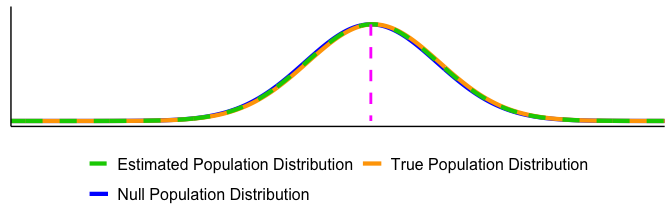
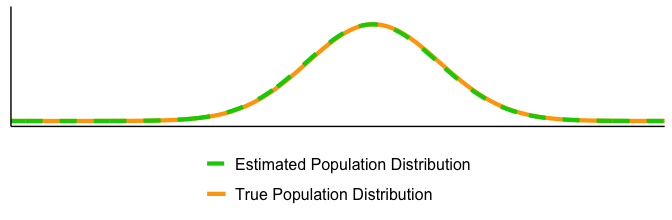
Ch4: 'The players' table replaces the four-distributions list and key; one idea per build-up figure
- intro on what a test is about, then a table of every player with its line
- step 3 shows true + estimated population only; step 4 shows estimated
  population + sampling distribution of the sample mean only, with the
  sqrt(n) vs n-1 note; step 5 puts them together
- Route 1 points back to the table's last row

diff --git a/docs/04-Foundation_Inference.html b/docs/04-Foundation_Inference.html
@@ -76,6 +76,8 @@ ul.task-list li input[type="checkbox"] {
     "search-label": "Search"
   }
 }</script>
+<script src="site_libs/kePrint-0.0.1/kePrint.js"></script>
+<link href="site_libs/lightable-0.0.1/lightable.css" rel="stylesheet">
 
   <script src="https://cdnjs.cloudflare.com/polyfill/v3/polyfill.min.js?features=es6"></script>
   <script defer="" src="https://cdn.jsdelivr.net/npm/mathjax@4/tex-chtml.js" type="text/javascript"></script>
@@ -248,8 +250,8 @@ window.Quarto = {
   <ul class="collapse">
   <li><a href="#the-null-and-alternative-hypotheses" id="toc-the-null-and-alternative-hypotheses" class="nav-link" data-scroll-target="#the-null-and-alternative-hypotheses"><span class="header-section-number">4.3.1</span> The null and alternative hypotheses</a></li>
   <li><a href="#from-simulation-to-a-formal-test" id="toc-from-simulation-to-a-formal-test" class="nav-link" data-scroll-target="#from-simulation-to-a-formal-test"><span class="header-section-number">4.3.2</span> From simulation to a formal test</a></li>
-  <li><a href="#the-four-distributions" id="toc-the-four-distributions" class="nav-link" data-scroll-target="#the-four-distributions"><span class="header-section-number">4.3.3</span> The four distributions</a></li>
-  <li><a href="#seeing-all-four-at-once" id="toc-seeing-all-four-at-once" class="nav-link" data-scroll-target="#seeing-all-four-at-once"><span class="header-section-number">4.3.4</span> Seeing all four at once</a></li>
+  <li><a href="#the-players" id="toc-the-players" class="nav-link" data-scroll-target="#the-players"><span class="header-section-number">4.3.3</span> The players</a></li>
+  <li><a href="#seeing-them-together" id="toc-seeing-them-together" class="nav-link" data-scroll-target="#seeing-them-together"><span class="header-section-number">4.3.4</span> Seeing them together</a></li>
   </ul></li>
   <li><a href="#making-the-decision" id="toc-making-the-decision" class="nav-link" data-scroll-target="#making-the-decision"><span class="header-section-number">4.4</span> Making the decision</a>
   <ul class="collapse">
@@ -444,32 +446,91 @@ Figure&nbsp;4.5: Decision boundaries applied to the histogram of mean count diff
 </div>
 </div>
 </section>
-<section id="the-four-distributions" class="level3" data-number="4.3.3">
-<h3 data-number="4.3.3" class="anchored" data-anchor-id="the-four-distributions"><span class="header-section-number">4.3.3</span> The four distributions</h3>
-<p>Hypothesis testing juggles four distributions at once, which is the main reason it feels harder than it is. Three of them you have already met. Only one is new.</p>
-<p><strong>Already familiar, from Chapter 3:</strong></p>
-<ul>
-<li><strong>True population distribution.</strong> The actual distribution the data came from. We never observe it. Chapter 3 called this the population distribution, and everything about estimation assumed it was out there.</li>
-<li><strong>Estimated population distribution.</strong> A normal curve built from the sample: centered at <span class="math inline">\(\bar{x}\)</span>, with the sample standard deviation as its spread. It is what the sample suggests the population looks like. This is estimation from Chapter 3, viewed as a whole distribution rather than a single parameter. In a test it stands in for <span class="math inline">\(H_a\)</span>.</li>
-<li><strong>Sampling distribution of the sample mean.</strong> What you would get if you drew many samples and computed <span class="math inline">\(\bar{x}\)</span> each time. Chapter 3 built this one in detail and gave it a spread, the standard error, <span class="math inline">\(\sigma/\sqrt{n}\)</span>.</li>
-</ul>
-<p><strong>New here:</strong></p>
-<ul>
-<li><strong>Null population distribution.</strong> The population distribution we would have <em>if <span class="math inline">\(H_0\)</span> were true</em>: centered at <span class="math inline">\(\mu_0\)</span>, and as wide as the population itself. In the figures below it is the blue curve.</li>
-</ul>
+<section id="the-players" class="level3" data-number="4.3.3">
+<h3 data-number="4.3.3" class="anchored" data-anchor-id="the-players"><span class="header-section-number">4.3.3</span> The players</h3>
+<p>A test is about <span class="math inline">\(\mu\)</span>, the true population mean, which we never observe; everything we know about it comes from one sample. The null hypothesis names a value for it, <span class="math inline">\(\mu_0\)</span>. To reject <span class="math inline">\(H_0\)</span>, the sample has to be hard to explain if the null were true: its mean, <span class="math inline">\(\bar{x}\)</span>, has to land farther from <span class="math inline">\(\mu_0\)</span> than sampling error would plausibly carry it.</p>
+<p>Several distributions and values take part in that comparison. <a href="#tbl-4players" class="quarto-xref">Table&nbsp;<span>4.1</span></a> lists every one, with the line each is drawn with in this chapter’s figures. Three are familiar from Chapter 3: the true population distribution, the estimated population distribution, and the sampling distribution of the sample mean. The rest come from the null hypothesis or are built later in the chapter.</p>
+<div class="cell">
+<div id="tbl-4players" class="cell quarto-float quarto-figure quarto-figure-center anchored">
+<figure class="quarto-float quarto-float-tbl figure">
+<figcaption class="quarto-float-caption-top quarto-float-caption quarto-float-tbl" id="tbl-4players-caption-0ceaefa1-69ba-4598-a22c-09a6ac19f8ca">
+Table&nbsp;4.1: The players in a hypothesis test, and the line each is drawn with in this chapter’s figures.
+</figcaption>
+<div aria-describedby="tbl-4players-caption-0ceaefa1-69ba-4598-a22c-09a6ac19f8ca">
+<div class="cell-output-display">
+<table class="table cell caption-top table-sm table-striped small">
+<thead>
+<tr class="header">
+<th style="text-align: left;" data-quarto-table-cell-role="th">Line</th>
+<th style="text-align: left;" data-quarto-table-cell-role="th">Player</th>
+<th style="text-align: left;" data-quarto-table-cell-role="th">What it is</th>
+</tr>
+</thead>
+<tbody>
+<tr class="odd" data-grouplength="2">
+<td colspan="3" style="border-bottom: 1px solid"><strong>The hypothesis</strong></td>
+</tr>
+<tr class="even">
+<td style="text-align: left; padding-left: 2em;" data-indentlevel="1"><img src="imgs/ch4_players/mu0.png" width="38" height="12" class="figure-img"></td>
+<td style="text-align: left;">\(\mu_0\)</td>
+<td style="text-align: left;">The population mean if \(H_0\) were true</td>
+</tr>
+<tr class="odd">
+<td style="text-align: left; padding-left: 2em;" data-indentlevel="1"><img src="imgs/ch4_players/nullpop.png" width="38" height="12" class="figure-img"></td>
+<td style="text-align: left;">Null population distribution</td>
+<td style="text-align: left;">The population if \(H_0\) were true: centered at \(\mu_0\), as wide as the population</td>
+</tr>
+<tr class="even" data-grouplength="1">
+<td colspan="3" style="border-bottom: 1px solid"><strong>The truth</strong></td>
+</tr>
+<tr class="odd">
+<td style="text-align: left; padding-left: 2em;" data-indentlevel="1"><img src="imgs/ch4_players/truepop.png" width="38" height="12" class="figure-img"></td>
+<td style="text-align: left;">True population distribution</td>
+<td style="text-align: left;">The population the data actually came from. Never known</td>
+</tr>
+<tr class="even" data-grouplength="4">
+<td colspan="3" style="border-bottom: 1px solid"><strong>The sample</strong></td>
+</tr>
+<tr class="odd">
+<td style="text-align: left; padding-left: 2em;" data-indentlevel="1"><img src="imgs/ch4_players/xbar.png" width="38" height="12" class="figure-img"></td>
+<td style="text-align: left;">\(\bar{x}\)</td>
+<td style="text-align: left;">The sample mean: the one value we observe</td>
+</tr>
+<tr class="even">
+<td style="text-align: left; padding-left: 2em;" data-indentlevel="1"><img src="imgs/ch4_players/estpop.png" width="38" height="12" class="figure-img"></td>
+<td style="text-align: left;">Estimated population distribution</td>
+<td style="text-align: left;">A normal curve from the sample's mean and standard deviation: our best picture of the true population</td>
+</tr>
+<tr class="odd">
+<td style="text-align: left; padding-left: 2em;" data-indentlevel="1"><img src="imgs/ch4_players/samp.png" width="38" height="12" class="figure-img"></td>
+<td style="text-align: left;">Sampling distribution of the sample mean</td>
+<td style="text-align: left;">Where \(\bar{x}\) would land across many samples: centered at \(\bar{x}\), spread = standard error</td>
+</tr>
+<tr class="even">
+<td style="text-align: left; padding-left: 2em;" data-indentlevel="1"><img src="imgs/ch4_players/ci.png" width="38" height="12" class="figure-img"></td>
+<td style="text-align: left;">Confidence interval</td>
+<td style="text-align: left;">\(\bar{x} \pm 1.96\) standard errors, built from the sampling distribution of the sample mean (Route 2)</td>
+</tr>
+<tr class="odd" data-grouplength="1">
+<td colspan="3" style="border-bottom: 1px solid"><strong>For testing</strong></td>
+</tr>
+<tr class="even">
+<td style="text-align: left; padding-left: 2em;" data-indentlevel="1"><img src="imgs/ch4_players/sampH0.png" width="38" height="12" class="figure-img"></td>
+<td style="text-align: left;">Sampling distribution of the sample mean under \(H_0\)</td>
+<td style="text-align: left;">Where \(\bar{x}\) would land if \(H_0\) were true: centered at \(\mu_0\), spread = standard error (Route 1)</td>
+</tr>
+</tbody>
+</table>
+</div>
+</div>
+</figure>
+</div>
+</div>
 </section>
-<section id="seeing-all-four-at-once" class="level3" data-number="4.3.4">
-<h3 data-number="4.3.4" class="anchored" data-anchor-id="seeing-all-four-at-once"><span class="header-section-number">4.3.4</span> Seeing all four at once</h3>
-<p>The four are much easier to hold onto as a picture than as a list. Let’s build that picture one curve at a time, ending at <a href="#fig-4key.keyfig" class="quarto-xref">Figure&nbsp;<span>4.10</span></a>.</p>
+<section id="seeing-them-together" class="level3" data-number="4.3.4">
+<h3 data-number="4.3.4" class="anchored" data-anchor-id="seeing-them-together"><span class="header-section-number">4.3.4</span> Seeing them together</h3>
+<p>The players are easier to hold onto as a picture than as a table. Let’s build that picture a curve or two at a time, ending at <a href="#fig-4key.keyfig" class="quarto-xref">Figure&nbsp;<span>4.10</span></a>.</p>
 <p>Every curve in these figures is drawn as a normal curve. For the sampling distribution of the sample mean, that is the Central Limit Theorem at work. For the three population curves, it is an assumption: we treat the population as normal, and the estimated population is the normal curve with the sample’s mean and standard deviation.</p>
-<p>Here is what each line means in the figures that follow:</p>
-<ul>
-<li><strong>Blue solid line</strong> = Null population distribution (<span class="math inline">\(H_0\)</span>).</li>
-<li><strong>Orange solid line</strong> = True population distribution (what actually generated the data).</li>
-<li><strong>Light-green dashed line</strong> = Estimated population distribution (built from the sample; our stand-in for <span class="math inline">\(H_a\)</span>).</li>
-<li><strong>Dark-green dot-dashed line</strong> = Sampling distribution of the sample mean, <span class="math inline">\(\bar{x}\)</span>.</li>
-<li><strong>Magenta dashed line</strong> = Hypothesized mean <span class="math inline">\(\mu_0\)</span> (under <span class="math inline">\(H_0\)</span>).</li>
-</ul>
 <p><strong>1. The null population distribution.</strong></p>
 <p>Start with the null population distribution: the population we would have if <span class="math inline">\(H_0\)</span> were true. Its center, <span class="math inline">\(\mu_0\)</span> (magenta dashed line), comes from <span class="math inline">\(H_0\)</span> itself. Its spread is the population standard deviation, <span class="math inline">\(\sigma\)</span>. In practice <span class="math inline">\(\sigma\)</span> is almost never known and the sample’s standard deviation stands in for it; this chapter treats <span class="math inline">\(\sigma\)</span> as known as a simplification. The <span class="math inline">\(t\)</span>-tests in Chapter 6 are the adjustment used in practice.</p>
 <div class="cell">
@@ -502,37 +563,37 @@ Figure&nbsp;4.7: True population distribution equals the null population distrib
 </div>
 </div>
 </div>
-<p><strong>3. Adding the estimated population distribution.</strong> We never know the true population distribution directly, but what we do have is a sample. From the sample’s mean and standard deviation we build the <strong>estimated population distribution</strong> (light-green dashed). In the best case, this lines up closely with the true population (orange).</p>
+<p><strong>3. The sample’s picture of the truth.</strong> We never see the true population, but we do have a sample. From the sample’s mean and standard deviation we build the <strong>estimated population distribution</strong> (light-green dashed): a normal curve that is our best picture of the true population (orange). With a representative sample, the two line up closely.</p>
 <div class="cell">
 <div class="cell-output-display">
-<div id="fig-4key.perfectly_representative_sample" class="quarto-float quarto-figure quarto-figure-center anchored" alt="Three wide bell curves nearly stacked on top of one another near the same center: the blue null population distribution, the orange true population, and the light-green dashed estimated population.">
+<div id="fig-4key.perfectly_representative_sample" class="quarto-float quarto-figure quarto-figure-center anchored" alt="Two wide bell curves nearly on top of one another: the solid orange true population and the light-green dashed estimated population.">
 <figure class="quarto-float quarto-float-fig figure">
 <div aria-describedby="fig-4key.perfectly_representative_sample-caption-0ceaefa1-69ba-4598-a22c-09a6ac19f8ca">
-<img src="04-Foundation_Inference_files/figure-html/fig-4key.perfectly_representative_sample-1.png" class="img-fluid figure-img" style="width:100.0%" alt="Three wide bell curves nearly stacked on top of one another near the same center: the blue null population distribution, the orange true population, and the light-green dashed estimated population.">
+<img src="04-Foundation_Inference_files/figure-html/fig-4key.perfectly_representative_sample-1.png" class="img-fluid figure-img" style="width:100.0%" alt="Two wide bell curves nearly on top of one another: the solid orange true population and the light-green dashed estimated population.">
 </div>
 <figcaption class="quarto-float-caption-bottom quarto-float-caption quarto-float-fig" id="fig-4key.perfectly_representative_sample-caption-0ceaefa1-69ba-4598-a22c-09a6ac19f8ca">
-Figure&nbsp;4.8: Perfectly representative sample: the estimated population distribution lines up with the true and null population distributions.
+Figure&nbsp;4.8: A representative sample: the estimated population distribution, built from the sample, lines up closely with the true population distribution.
 </figcaption>
 </figure>
 </div>
 </div>
 </div>
-<p><strong>4. Adding the sampling distribution of the sample mean.</strong> Divide the sample’s spread by <span class="math inline">\(\sqrt{n}\)</span> and we get the <strong>sampling distribution of the sample mean</strong> (dark-green dot-dash): centered at <span class="math inline">\(\bar{x}\)</span>, and much narrower. This special distribution is also where the confidence interval comes from, which we build later in this chapter.</p>
+<p><strong>4. From individual readings to sample means.</strong> Divide the sample’s standard deviation by <span class="math inline">\(\sqrt{n}\)</span>. (Not <span class="math inline">\(\sqrt{n-1}\)</span>: the <span class="math inline">\(n-1\)</span> already went into computing the standard deviation itself, back in Chapter 3.) The result is the standard error, and it gives the <strong>sampling distribution of the sample mean</strong> (dark-green dot-dash): centered at <span class="math inline">\(\bar{x}\)</span>, and much narrower. This special distribution is also where the confidence interval comes from, which we build later in this chapter.</p>
 <div class="cell">
 <div class="cell-output-display">
-<div id="fig-4key.sample_imperfect_convenient" class="quarto-float quarto-figure quarto-figure-center anchored" alt="Four curves: the blue null population distribution sits somewhat left of the orange true population, light-green dashed estimated population, and dark-green sampling distribution, which are clustered together to its right. The null mean is marked with a dashed vertical line.">
+<div id="fig-4key.sample_to_sampling" class="quarto-float quarto-figure quarto-figure-center anchored" alt="A wide light-green dashed bell curve and a much narrower, taller dark-green dot-dash bell curve, both centered at the same point.">
 <figure class="quarto-float quarto-float-fig figure">
-<div aria-describedby="fig-4key.sample_imperfect_convenient-caption-0ceaefa1-69ba-4598-a22c-09a6ac19f8ca">
-<img src="04-Foundation_Inference_files/figure-html/fig-4key.sample_imperfect_convenient-1.png" class="img-fluid figure-img" style="width:100.0%" alt="Four curves: the blue null population distribution sits somewhat left of the orange true population, light-green dashed estimated population, and dark-green sampling distribution, which are clustered together to its right. The null mean is marked with a dashed vertical line.">
+<div aria-describedby="fig-4key.sample_to_sampling-caption-0ceaefa1-69ba-4598-a22c-09a6ac19f8ca">
+<img src="04-Foundation_Inference_files/figure-html/fig-4key.sample_to_sampling-1.png" class="img-fluid figure-img" style="width:100.0%" alt="A wide light-green dashed bell curve and a much narrower, taller dark-green dot-dash bell curve, both centered at the same point.">
 </div>
-<figcaption class="quarto-float-caption-bottom quarto-float-caption quarto-float-fig" id="fig-4key.sample_imperfect_convenient-caption-0ceaefa1-69ba-4598-a22c-09a6ac19f8ca">
-Figure&nbsp;4.9: Imperfect but convenient sample: the estimated population sits close to the null population distribution, but not on it. The sampling distribution of the sample mean is centered on <span class="math inline">\(\bar{x}\)</span> and much narrower.
+<figcaption class="quarto-float-caption-bottom quarto-float-caption quarto-float-fig" id="fig-4key.sample_to_sampling-caption-0ceaefa1-69ba-4598-a22c-09a6ac19f8ca">
+Figure&nbsp;4.9: From the sample to sample means: the estimated population distribution (light-green dashed) and the sampling distribution of the sample mean (dark-green dot-dash) share a center, <span class="math inline">\(\bar{x}\)</span>. Dividing the spread by <span class="math inline">\(\sqrt{n}\)</span> makes the second much narrower.
 </figcaption>
 </figure>
 </div>
 </div>
 </div>
-<p>All four together give the figure you will see variations on for the rest of the book.</p>
+<p><strong>5. All together.</strong> <a href="#fig-4key.keyfig" class="quarto-xref">Figure&nbsp;<span>4.10</span></a> puts the null population, the true population, the estimated population, and the sampling distribution of the sample mean in one picture. This is the figure you will see variations on for the rest of the book.</p>
 <p>Key reminder: <span class="math inline">\(\mu_0\)</span> (magenta dashed line) comes from the null hypothesis. The unknown <span class="math inline">\(\mu\)</span> is what we’re trying to learn about, and we approximate it from the sample through the estimated population distribution and the sampling distribution of the sample mean.</p>
 <div class="cell">
 <div class="cell-output-display">
@@ -597,7 +658,7 @@ Figure&nbsp;4.10: Key elements of hypothesis testing graphs: null population (bl
 </section>
 <section id="route-1-test-statistic-and-critical-values" class="level3" data-number="4.4.3">
 <h3 data-number="4.4.3" class="anchored" data-anchor-id="route-1-test-statistic-and-critical-values"><span class="header-section-number">4.4.3</span> Route 1: test statistic and critical values</h3>
-<p>Critical values need one more curve: the <strong>sampling distribution of the sample mean under <span class="math inline">\(H_0\)</span></strong>, which describes what <span class="math inline">\(\bar{x}\)</span> would look like across many samples if <span class="math inline">\(H_0\)</span> were true. Its center, <span class="math inline">\(\mu_0\)</span>, comes from <span class="math inline">\(H_0\)</span>. Its spread is the standard error, <span class="math inline">\(\sigma/\sqrt{n}\)</span>. This curve is the formal version of the chance window: instead of simulating the differences chance can produce, we assume a distribution and read them off it.</p>
+<p>Critical values need one more curve, the last row of <a href="#tbl-4players" class="quarto-xref">Table&nbsp;<span>4.1</span></a>: the <strong>sampling distribution of the sample mean under <span class="math inline">\(H_0\)</span></strong>, which describes what <span class="math inline">\(\bar{x}\)</span> would look like across many samples if <span class="math inline">\(H_0\)</span> were true. Its center, <span class="math inline">\(\mu_0\)</span>, comes from <span class="math inline">\(H_0\)</span>. Its spread is the standard error, <span class="math inline">\(\sigma/\sqrt{n}\)</span>. This curve is the formal version of the chance window: instead of simulating the differences chance can produce, we assume a distribution and read them off it.</p>
 <p><a href="#fig-rejection-region" class="quarto-xref">Figure&nbsp;<span>4.11</span></a> draws it for a two-sided test at <span class="math inline">\(\alpha = 0.05\)</span>, marked off in standard errors from <span class="math inline">\(\mu_0\)</span>. The red lines are the <strong>critical values</strong>, 1.96 standard errors on either side of <span class="math inline">\(\mu_0\)</span>. They cut off the most extreme 5% of the curve, 2.5% in each tail, and those shaded tails are the <strong>rejection regions</strong>. Here the observed <span class="math inline">\(\bar{x}\)</span> (dotted line) lands 2.4 standard errors above <span class="math inline">\(\mu_0\)</span>, inside the right-hand rejection region. Counting that distance in standard errors is exactly the test statistic from earlier, <span class="math inline">\(z = (\bar{x} - \mu_0)/SE = 2.4\)</span>.</p>
 <p>Here’s the decision rule:</p>
 <ul>
